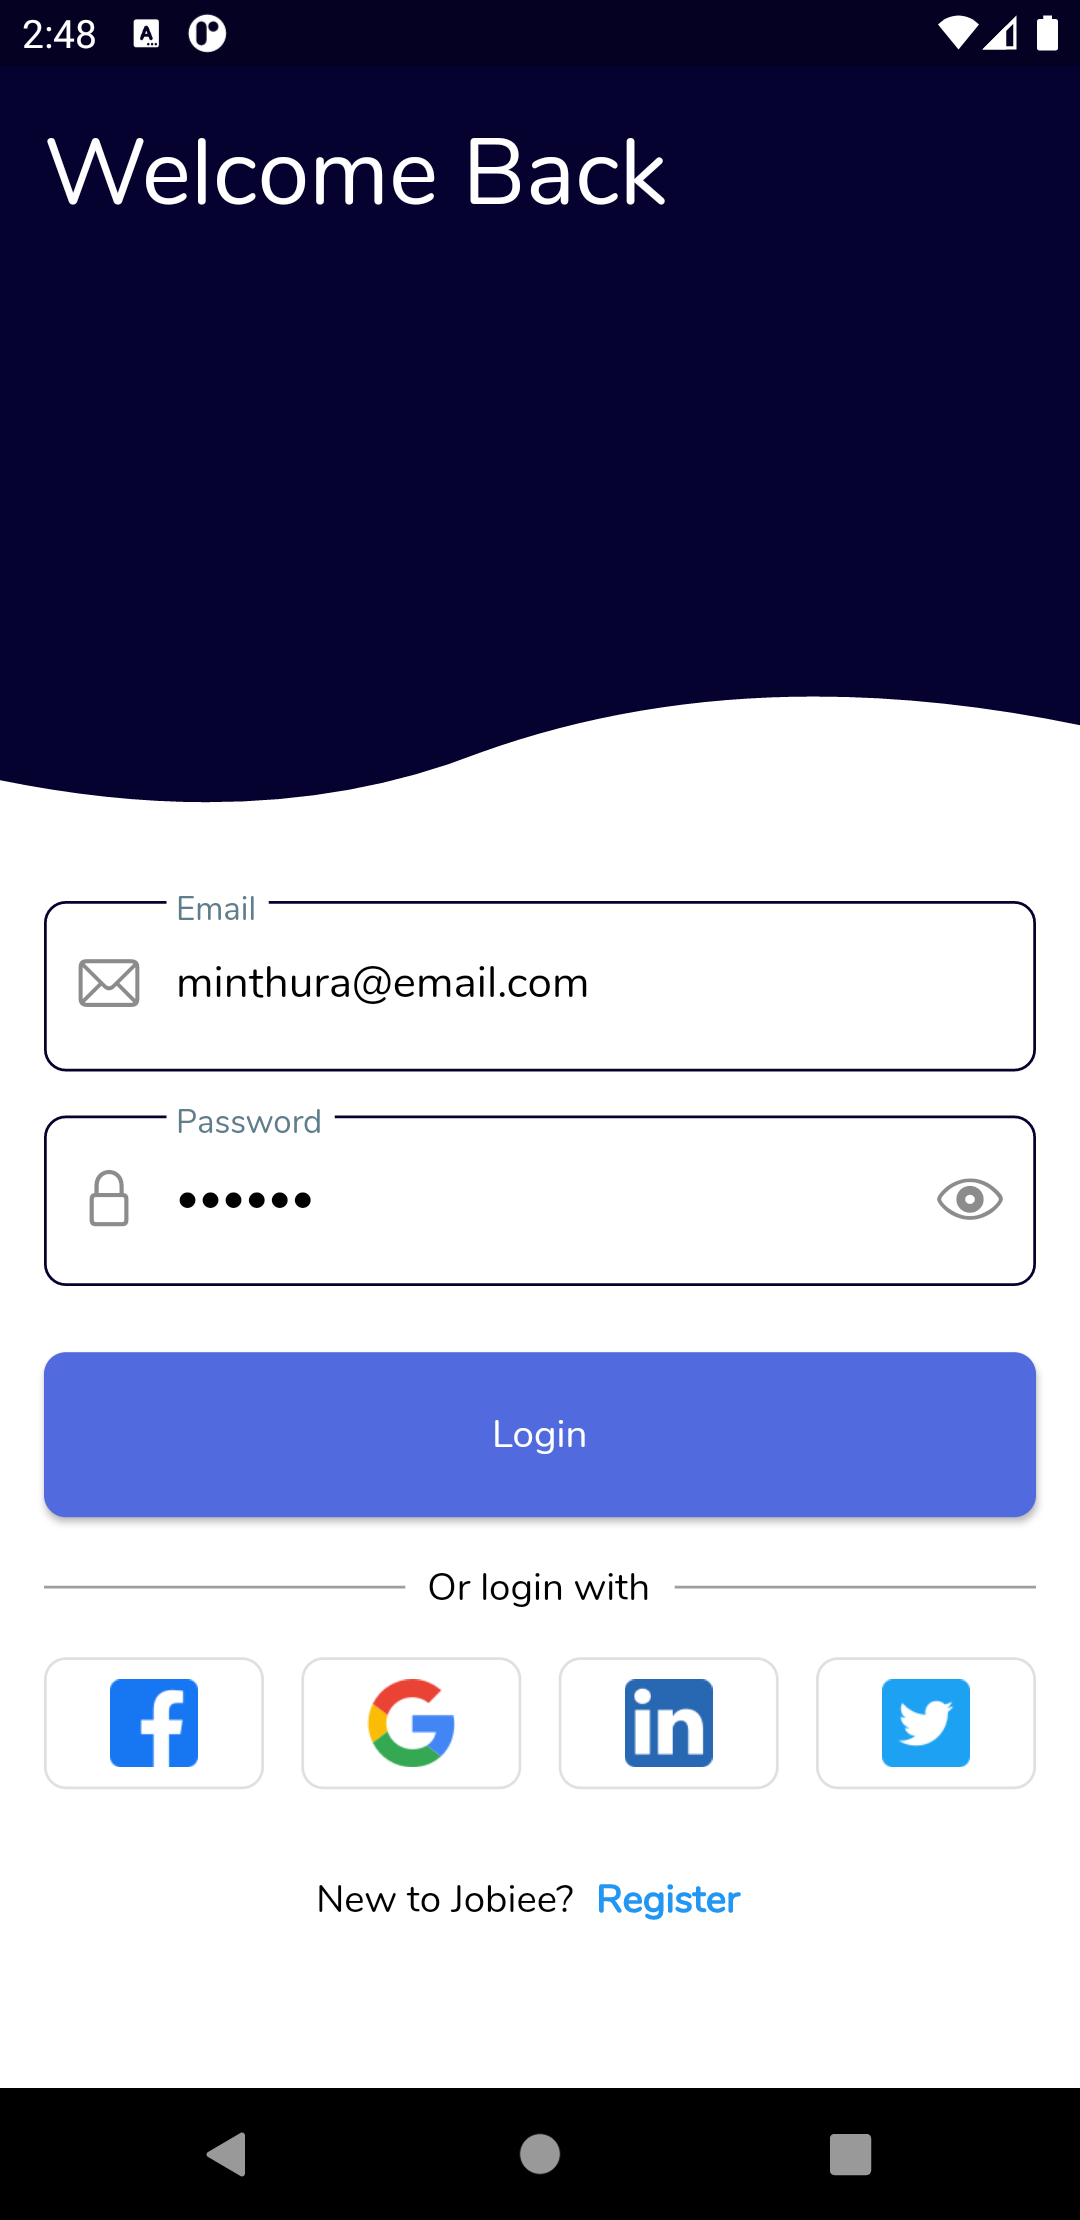
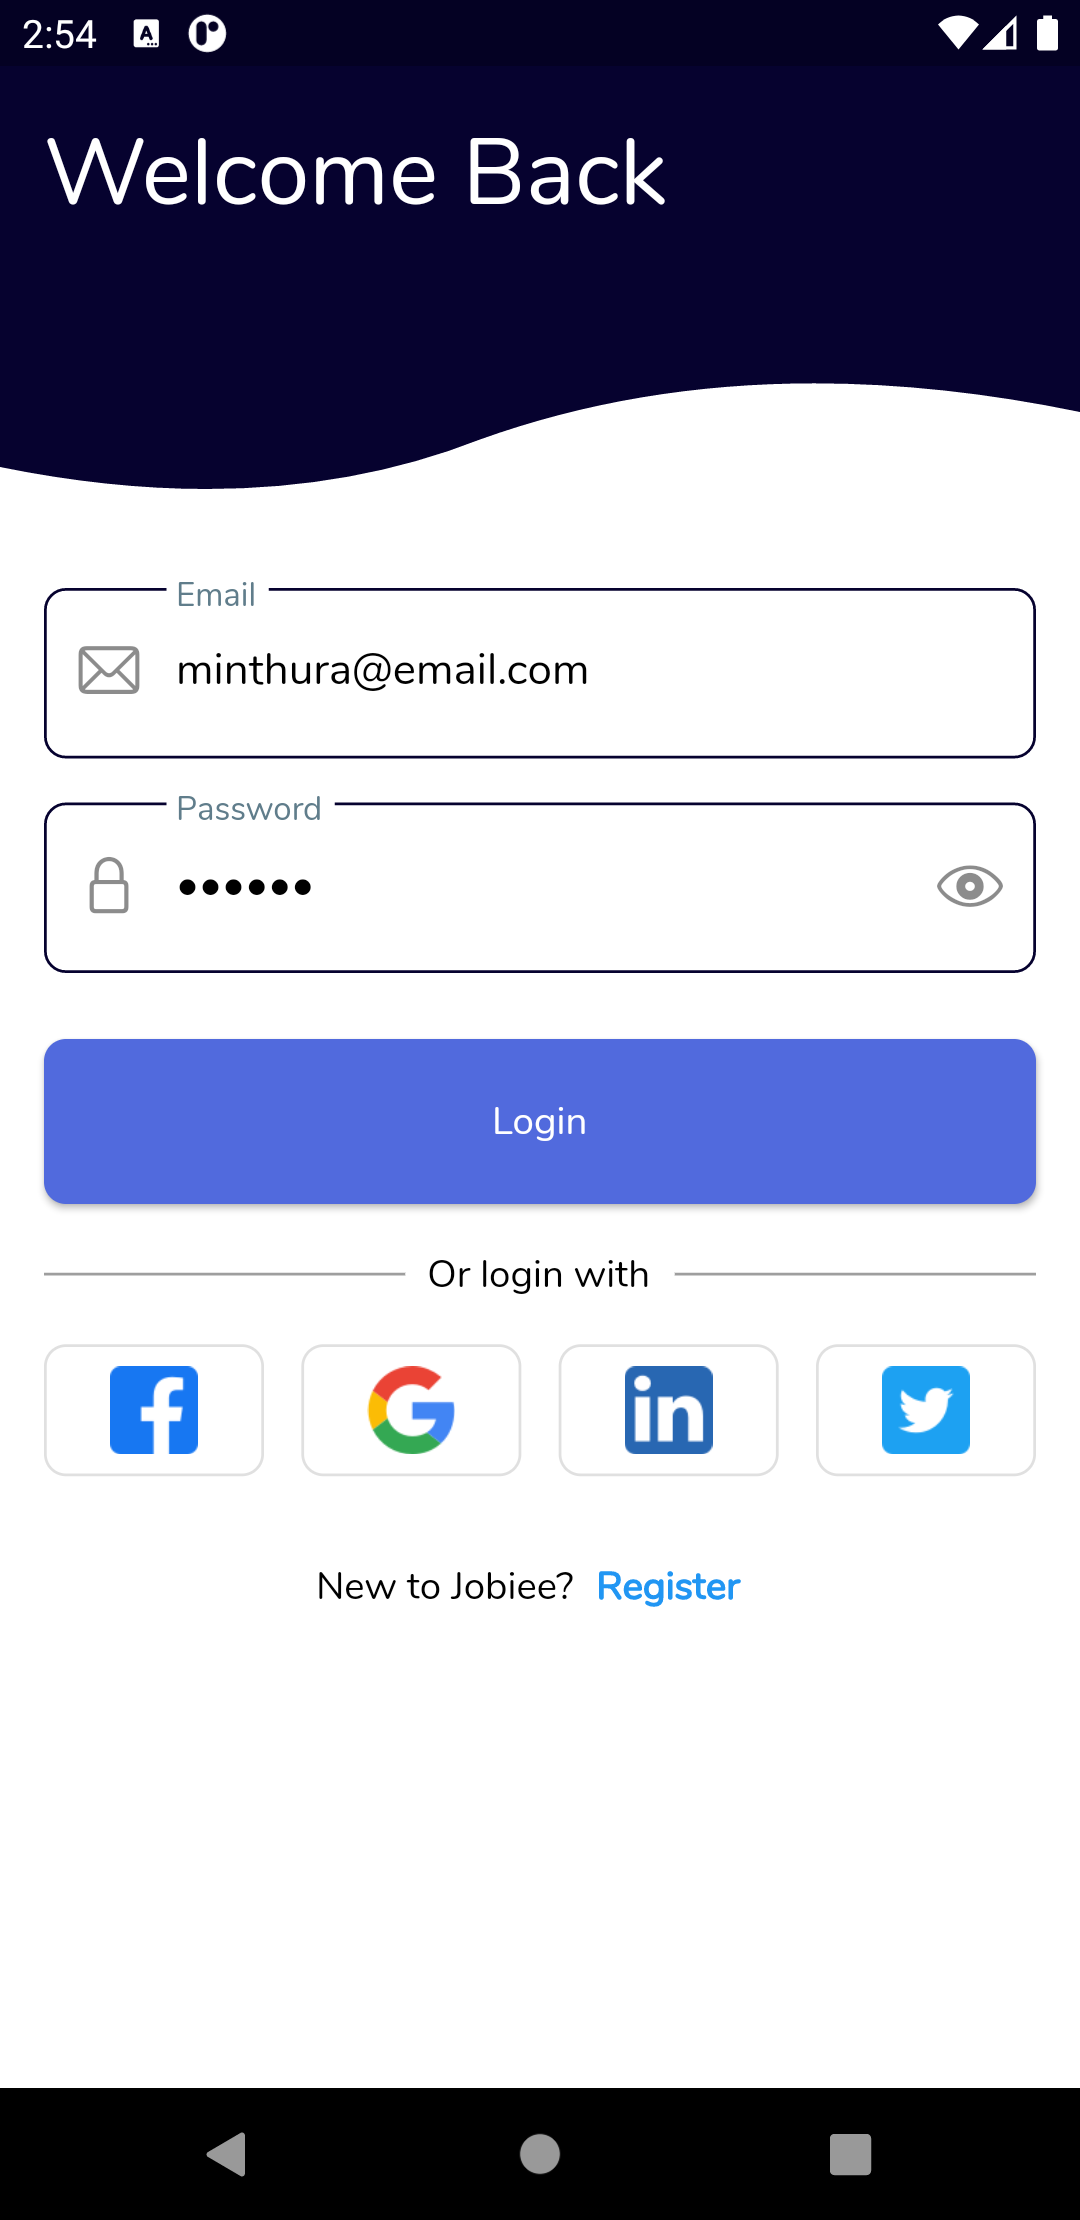
Updated login screen.

diff --git a/lib/views/screens/login_screen.dart b/lib/views/screens/login_screen.dart
@@ -19,7 +19,7 @@ class LoginScreen extends StatelessWidget {
       body: Column(
         children: [
           Expanded(
-            flex: 2,
+            flex: 1,
             child: ClipPath(
               clipper: WaveClipperTwo(),
               child: Container(
